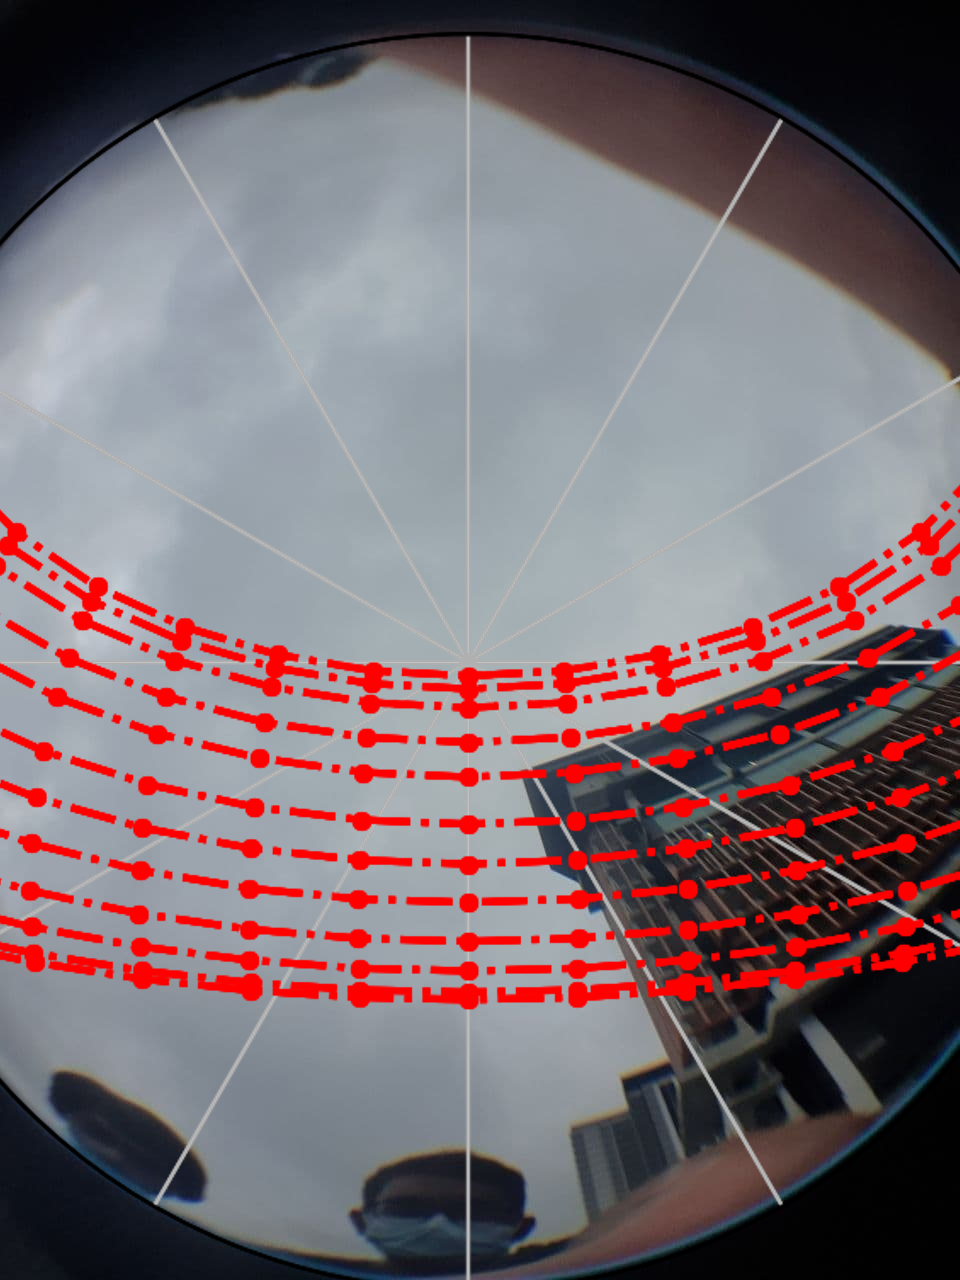
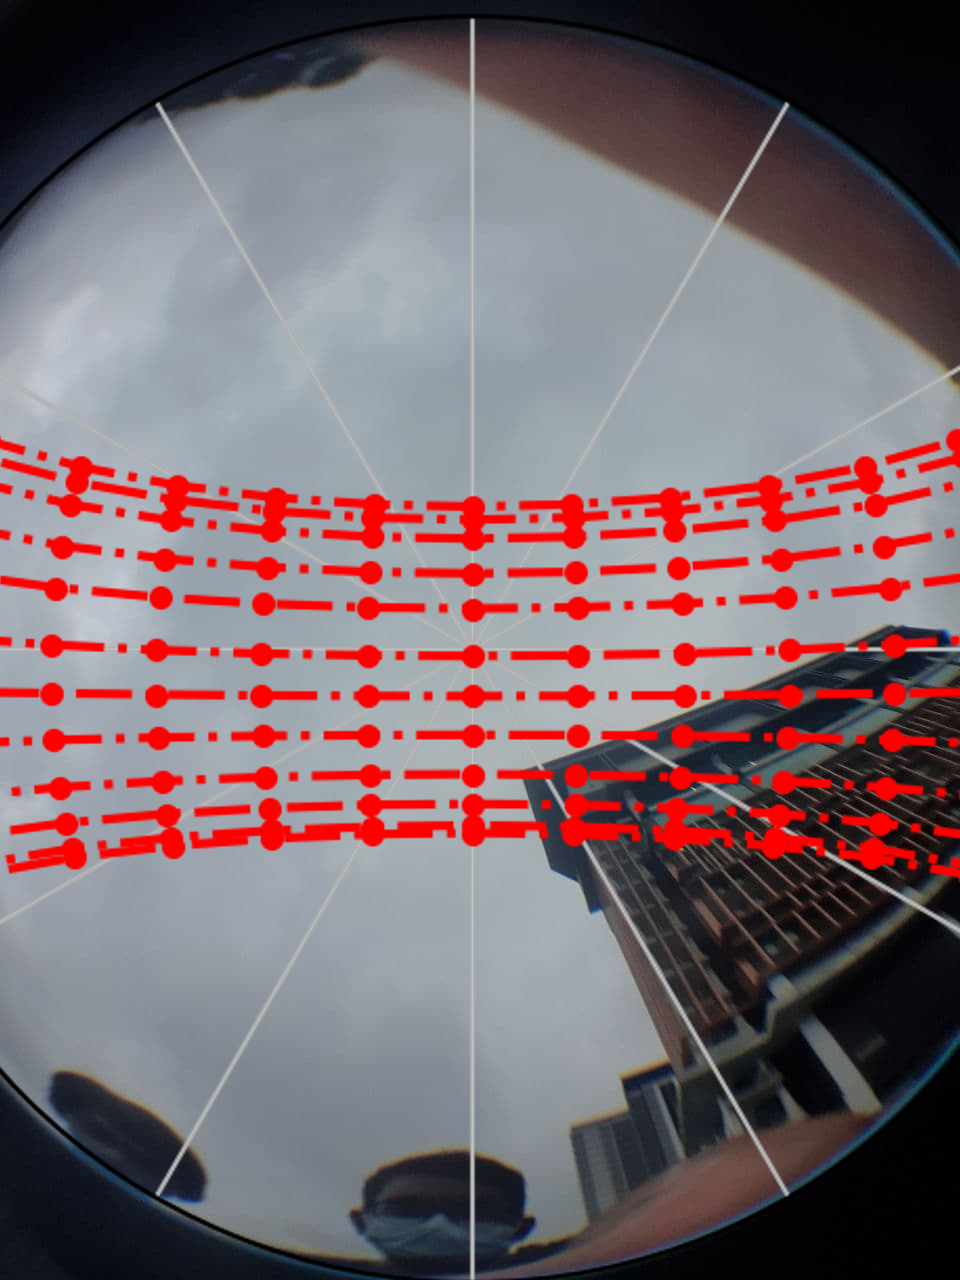
Error with calling graphing function
The function was called twice due to an error in the original py file for the graph. It has been removed.

diff --git a/graph_maker.py b/graph_maker.py
@@ -76,6 +76,7 @@ def make_graph(latitude, longitude):
         
         # LSTM = 15*D * (deltaGMT_a)
         
+        
         days_since = j-base_date
         B = ((360/365) + (days_since.days +285))
         # delta = D(23.45) * np.sin(D(B))
@@ -115,7 +116,6 @@ def make_graph(latitude, longitude):
         
             data = data.append(to_store,ignore_index=True)
         
-    
     lines = [data[data.day==i] for i in dates]
     sun_path = plt.subplot(1,1,1,projection='polar')
     sun_path.set_theta_zero_location('N')
@@ -130,12 +130,13 @@ def make_graph(latitude, longitude):
         theta = np.real(tempFrame['azimuth'])
         sun_path.plot(theta,r,linestyle='-.', marker='.',label='a',color='r')
     
+
     fig = plt.gca()
     x_axis = fig.axes.get_xaxis()
     x_axis.set_ticklabels([])
     
     y_axis = fig.axes.get_yaxis()
     y_axis.set_visible(False)
+
     plt.savefig(r'C:\Users\User\Documents\GitHub\Solar_Path_App\test_pics\graphed.png',transparent=True,dpi=200)
 
-make_graph(25.251,101.34)

diff --git a/image_process.py b/image_process.py
@@ -32,11 +32,12 @@ def overlay_graph(route_base,graph):
     
     print(center, radius)
     
+    
     im2 = Image.open(graph)
     
     w, h = im2.size
     
-    mf = (radius / 370)
+    mf = (radius / 300) #300 if width is 800, 370 if 960
     
     im2_large = im2.resize((int(w * mf),int(h * mf)))
     
@@ -65,3 +66,8 @@ def overlay_graph(route_base,graph):
     # cv2.imwrite("Centre_skye.jpg",img)
     im1.save("C:\\Users\\User\\Documents\\GitHub\\Solar_Path_App\\test_pics\\combined.png")
     # cv2.waitKey(0)
+    im1.show()
+    temp_base.close()
+    temp_graph.close()
+    im1.close()
+    im2.close()

diff --git a/working.py b/working.py
@@ -1,11 +1,16 @@
 from image_process import overlay_graph
-from graph_maker import make_graph
-
+import graph_maker as gm
+from time import sleep
 path_of_fish = r"C:\Users\User\Documents\GitHub\Solar_Path_App\test_pics\blob2.jpg"
 path_of_graph = r'C:\Users\User\Documents\GitHub\Solar_Path_App\test_pics\graphed.png'
 
-make_graph(25.251,101.34)
 
+def main():
 
-overlay_graph(path_of_fish,path_of_graph)
+    gm.make_graph(3,101.7321333)
+    
+    
+    overlay_graph(path_of_fish,path_of_graph)
 
+if __name__ == '__main__':
+    main()
